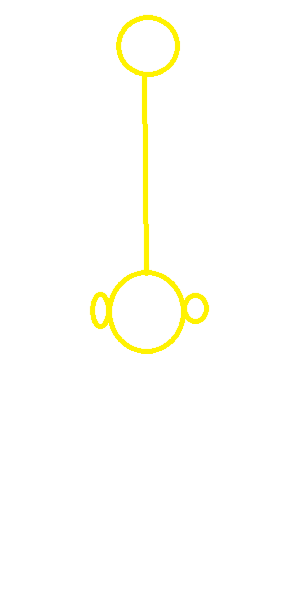
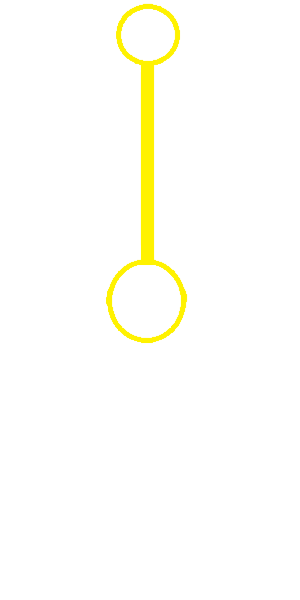
black disighn

Changed region(s): [[0.3, 0.0, 0.72, 0.6]]

diff --git a/components/BackStage.tsx b/components/BackStage.tsx
@@ -36,10 +36,13 @@ const strips = (scale: number = 1) => {
     return buf
 }
 
-function StripsEl({style}: {style: {img: ImageProps, box: ViewStyle}}) {
+function StripsEl({style, i}: {style: {img: ImageProps, box: ViewStyle}, i: number}) {
     return (
         <Box style={style.box}>
-            <Image style={style.img} source={require('@/assets/images/spamigorLogoL.png')} />
+            {i===3 ? 
+                <Image style={style.img} source={require('@/assets/images/spamigorLogoLongP.png')} /> :
+                <Image style={style.img} source={require('@/assets/images/spamigorLogoOL.png')} />
+            }
         </Box>
     )
 }
@@ -52,7 +55,7 @@ export default function BackStage (props: Props) {
         <Box style={{...props.style, position: 'absolute'}}>
             <Box style={{alignItems: 'center', justifyContent: 'center', position:'absolute'}}>
                 {face.map((item: {img: ImageProps, box: ViewStyle}, index: number)=>{
-                    return (<StripsEl key={index} style={item as {img: ImageProps, box: ViewStyle}} />)}
+                    return (<StripsEl i={index} key={index} style={item as {img: ImageProps, box: ViewStyle}} />)}
                 )}
             </Box>
         </Box>

diff --git a/app/(tabs)/index.tsx b/app/(tabs)/index.tsx
@@ -53,9 +53,9 @@ export default function HomeScreen() {
 
   return (
     <Box style={{height: '100%', display:'flex', alignItems: 'center', justifyContent: 'center', backgroundColor: 'black'}}>
-      <Box style={boxSX}><Image style={styleF(angleS) as ImageProps} source={require('../../assets/images/secondsL.png')} /></Box>
-      <Box style={boxSX}><Image style={styleF(angleM) as ImageProps} source={require('../../assets/images/minutesL.png')} /></Box>
-      <Box style={boxSX}><Image style={styleF(angleH) as ImageProps} source={require('../../assets/images/hoursL.png')} /></Box>
+      <Box style={boxSX}><Image style={styleF(angleS) as ImageProps} source={require('../../assets/images/secondsNL.png')} /></Box>
+      <Box style={boxSX}><Image style={styleF(angleM) as ImageProps} source={require('../../assets/images/minutesNL.png')} /></Box>
+      <Box style={boxSX}><Image style={styleF(angleH) as ImageProps} source={require('../../assets/images/hoursNL.png')} /></Box>
       <BackStage style={boxSX} scale={scale} />
     </Box>
   );
